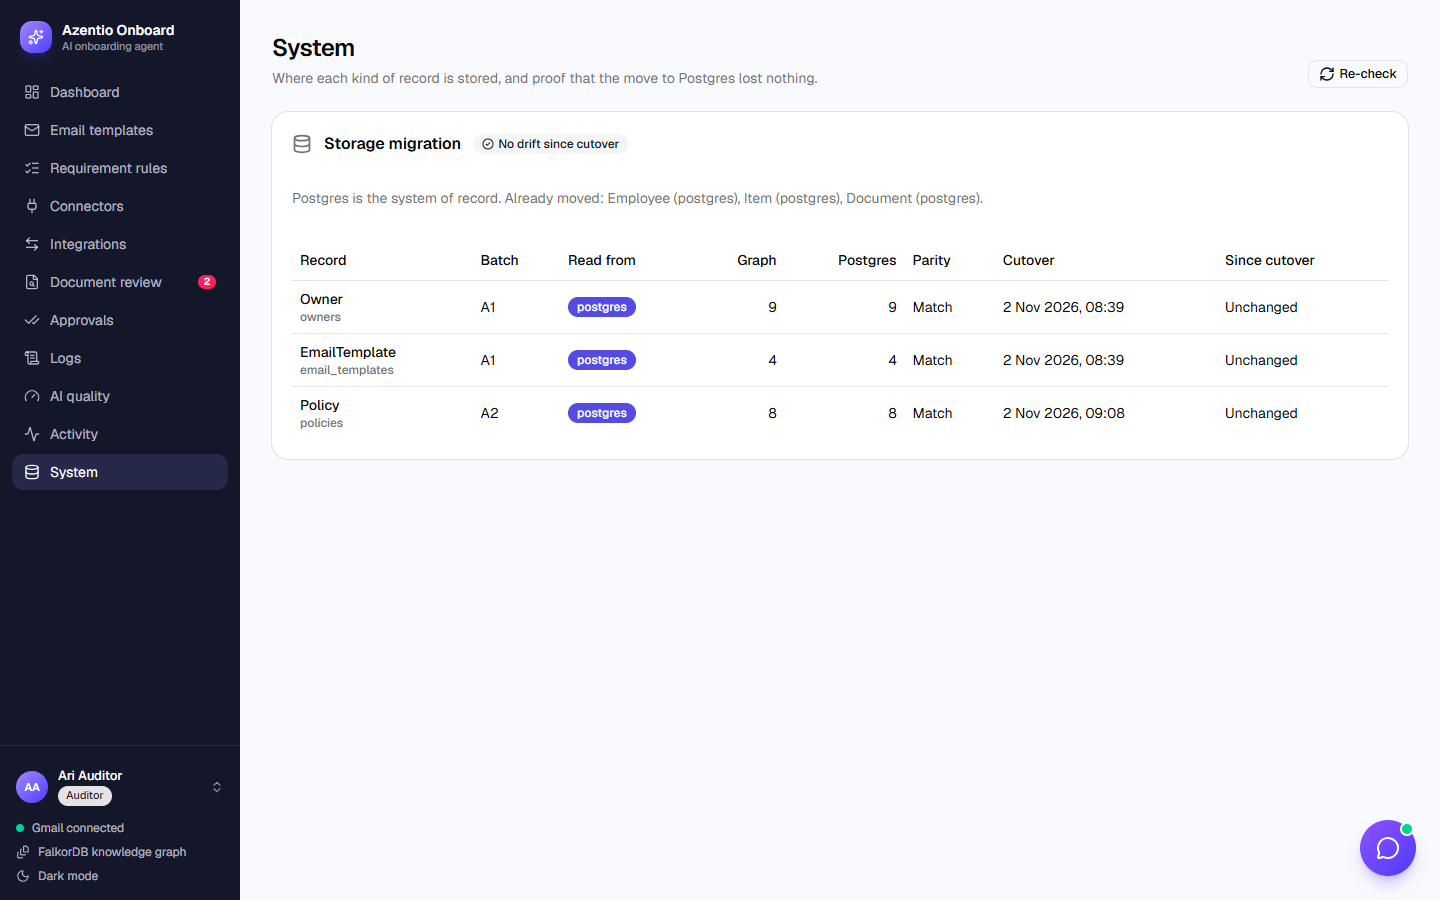
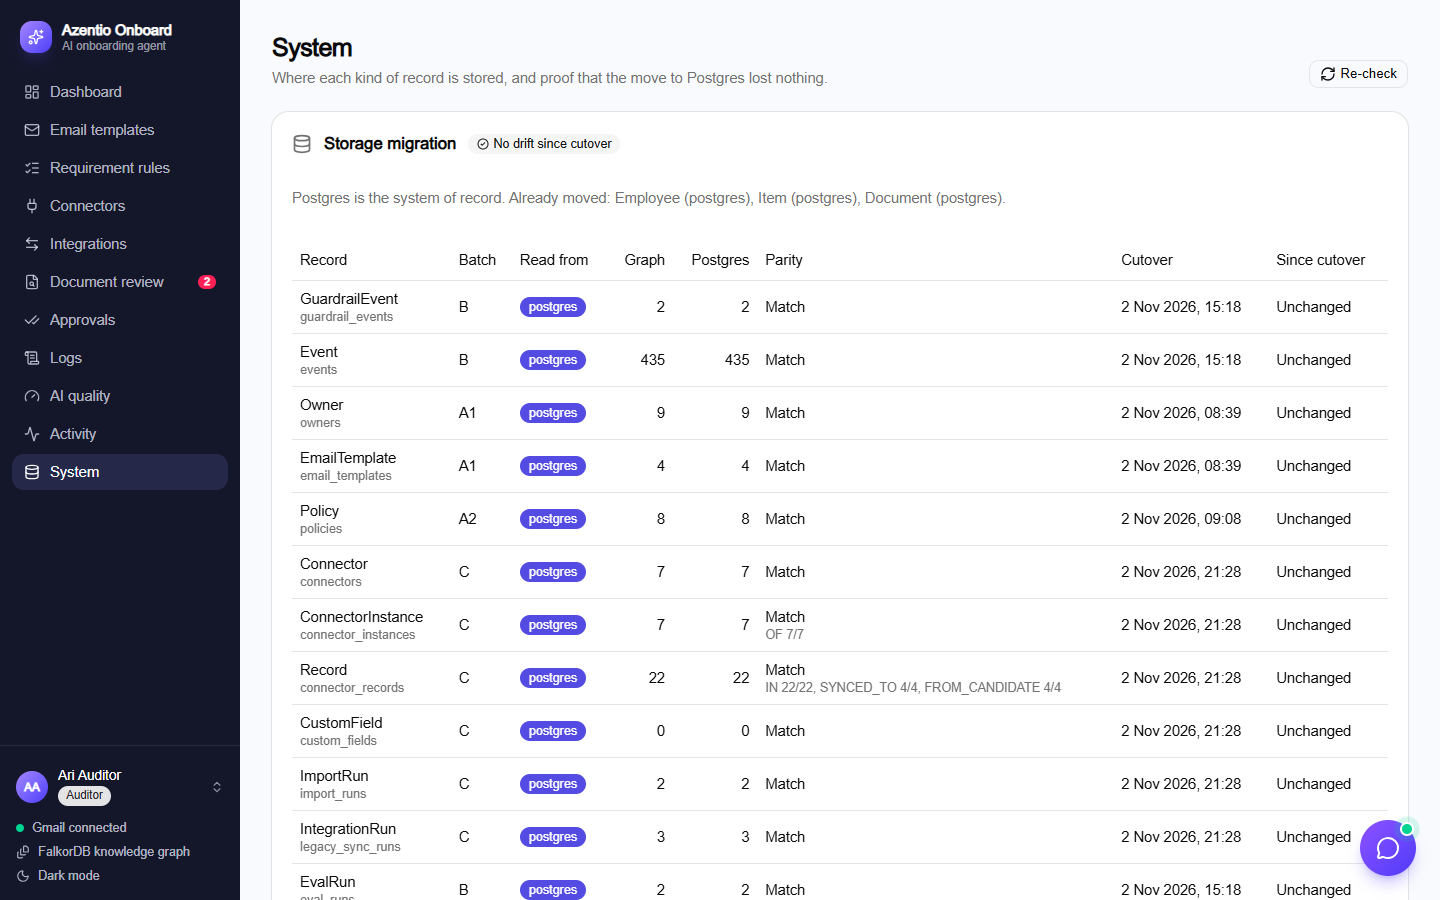
Docs: Phase 3 engine (LLD 12.4), startup steps, sensitive BGSAVE snapshots; refreshed screenshots
LLD 12.1 lists the startup gates as built (records, documents, graph batches, connector secrets) and the new 12.4
describes the migration engine: LabelSpec/EdgeSpec, freeze and lock, the report's ok, after_cutover and the drift
baseline, rollback. AGENTS.md's graph-label rule covers EdgeSpec backfill/restore and after_cutover. The runbook warns
that a pre-cutover BGSAVE keeps plaintext connector secrets. Screenshots refreshed by smoke.py, now with /connectors.

diff --git a/docs/lld.md b/docs/lld.md
@@ -859,6 +859,9 @@ Every step is idempotent: running it twice gives the same state as running it on
 3. **`db.migrate()`:** applies `migrations/NNN_*.sql` in order under an advisory lock (safe with several replicas). Each file runs in its own transaction and is recorded in `schema_migrations`.
 4. **`import_graph_rows()`:** imports the legacy audit history (§10.4), if the graph is reachable.
 5. **`ensure_users()`:** creates the admin from `ADMIN_EMAIL`/`ADMIN_PASSWORD` if missing. In dev the defaults are `admin@azentio.local` / `admin-dev-pass`. An existing password is never overwritten. Outside production it also creates the dev accounts `hrops@`, `approver@`, `manager@` and `auditor@azentio.local`, and prints them once.
+5a. **`migrate_records()` / `migrate_documents()`:** the one-time Phase 1 and Phase 2 backfill gates (§12.3).
+5b. **`migrate_graph_batches()`:** cuts over every Phase 3 batch not yet on Postgres (§12.4). It runs before the job worker, the Gmail poller and the scheduler start, and refuses to start, with "nothing was switched", on a live second instance, a parity or edge mismatch, or graph data the mapping can't take.
+5c. **`secrets.check_at_startup()`:** stored connector secrets must be readable with the configured key ([ADR 0013](adr/0013-connector-secrets-at-rest.md)). A malformed key, production without `SECRETS_KEY` while secrets are stored, or no key matching the stored fingerprints stops startup with the fingerprints named.
 6. **Lifespan:** if the graph is up, it runs `ingest.seed()` (default rules, templates, sample joiners, connectors, policies) and `ensure_dev_manager_reports()`. Then it starts the job worker, the Gmail poller and the integration scheduler.
 
 ### 12.2 Health
@@ -885,6 +888,38 @@ Every step is idempotent: running it twice gives the same state as running it on
   4. stop graph writes, once every read path has switched
 
   The graph then becomes a rebuild-only read model.
+
+### 12.4 The Phase 3 migration engine (`graph_migration.py`)
+Every remaining graph record label moves through one engine, in batches (A1, A2, A3, B, C, D, E). The runbook is `docs/runbooks/phase-3-cutover.md`.
+- **`LabelSpec`, registered by the module that owns the table** (`SPEC_MODULES`):
+  - the `table` and `key`
+  - `to_row`, which maps graph properties to columns
+  - `canonical`, one comparable form used for both sides
+  - `from_row`, which maps a row back to graph properties for rollback; it never emits null
+  - `mapped_keys` / `dropped_keys`, for the schema diff
+  - `projection=True` when the graph keeps the label as a projection (`Owner`)
+  - `allowed_readers`
+  - `edges`
+  - `after_cutover`
+- **`EdgeSpec`:**
+  - `graph_count` / `pg_count`, the counts that must match
+  - `restore()`, which rebuilds the edges in the graph on rollback
+  - optional `backfill(conn)`, for edges that have no node of their own (the employee ↔ connector record links). It runs inside the cutover transaction and replaces the table's contents.
+- **`cutover(batch)`:**
+  1. Takes the advisory lock and checks the freeze: refuses if another instance's heartbeat is still advancing.
+  2. Backfills every label idempotently, then the edges, in one transaction.
+  3. Reports per label: counts, checksums, the first mismatch, the schema diff, edge counts, and the read-path scan (code that still names the label). A label is `ok` only if parity, edges and the schema diff are all clean.
+  4. If anything isn't clean, it raises and switches nothing.
+  5. Otherwise, `after_cutover` runs (batch C removes the plaintext secrets from the graph), and the graph checksum taken after it becomes the drift baseline. Then the bridge switches.
+- **`drift_since_cutover()`:**
+  - A retired label is compared with its baseline; a graph emptied by a wipe counts as ok.
+  - A projection label is compared with Postgres as it is now.
+- **`rollback(batch)`:**
+  1. Builds every graph payload first, so a row that can't be converted (for example, a secret with no key) aborts before anything changes.
+  2. Removes graph nodes that aren't in the table, including nodes that lack the key property.
+  3. Writes every row back and restores the edges.
+  4. Checks parity per label, then switches the bridge back.
+- **CLI:** `python -m graph_migration report|drift|rollback <batch>`. `/api/admin/migration` (admin and auditor) serves the same report on the System page.
 
 ---
 

diff --git a/AGENTS.md b/AGENTS.md
@@ -121,7 +121,7 @@ cd backend && uv run python test_phase3.py    # migration engine (freeze, cutove
 - **Rules change only by publishing a version** (`policy/`). A requirements file enters only through `ingest.import_requirements`: v1 on a fresh install, a governed draft after that. Replay never deletes an item: not-started items are cancelled, done items or items with documents are kept as evidence.
 - **One open draft at a time is a deliberate limit**, not a bug: two drafts of the same rule set would need merging. Revisit only if HR asks for parallel drafts.
 - **Every `work_queue` kind is a contract** in `work_queue.KINDS`: an SLA, an escalation role and resolution steps. Register a kind before opening items of it.
-- **Graph labels move through `graph_migration.py` only** (Phase 3): register a `LabelSpec` in the owning module (listed in `graph_migration.SPEC_MODULES`; `projection=True` if the graph keeps it as a projection), then the cutover runs at startup before any worker, refuses unless parity, schema diff, edges and the read-path scan are clean, and records before/after evidence. Follow `docs/runbooks/phase-3-cutover.md` per batch.
+- **Graph labels move through `graph_migration.py` only** (Phase 3): register a `LabelSpec` in the owning module (listed in `graph_migration.SPEC_MODULES`; `projection=True` if the graph keeps it as a projection; edges as `EdgeSpec` with counts, a `restore` for rollback and, for edges with no node of their own, a `backfill`; `after_cutover` for anything that must leave the graph once Postgres holds it, such as plaintext secrets). The cutover runs at startup before any worker, refuses unless parity, edge counts, the schema diff (no unmapped keys) and the read-path scan are all clean, and records before/after evidence (LLD §12.4). Follow `docs/runbooks/phase-3-cutover.md` per batch. An install that ran the first batch C build (before the graph secret scrub) needs `rollback C` and a restart.
 - **Postgres is the system of record.**
   - Read migrating record types only through `shared/bridge.py`.
   - A type may switch to Postgres only after `parity()` passes.

diff --git a/docs/runbooks/phase-3-cutover.md b/docs/runbooks/phase-3-cutover.md
@@ -12,6 +12,10 @@ restore path.**
 1. **Pre-checks**
    - CI is green on the batch PR. That covers `test_phase3`, the API contract and smoke.
    - Take a graph snapshot: `docker compose exec falkordb redis-cli BGSAVE`, then wait until `LASTSAVE` changes.
+     **The snapshot is sensitive.** It keeps every graph value as it was, including the plaintext connector secrets
+     that batch C encrypts and then removes from the graph. Store it like a credential, delete it once its batch is
+     signed off (after E it's the cleanup's rollback point; delete it once E is signed off), and rotate any real
+     credential it held.
    - Save the "before" report: `cd backend && uv run python -m graph_migration report --out ../before-<batch>.json`.
 2. **Freeze**
    - Stop **every** backend instance. The cutover refuses to run while another instance's heartbeat is still
@@ -249,8 +253,3 @@ counts equal. Both secrets became Fernet tokens (`secret_key_id d8f1b5e4`, the d
   onboarding links. Re-upgrade: five clean cutovers.
 
 **Sign-off:** dev ✓. CI on the PR covers `test_phase3` (C section and API contract) with a throwaway `SECRETS_KEY`.
-
-**Deep test (2026-11-02):** the review found the graph still held the plaintext secrets after cutover. The fixed
-cutover removes them, so dev was rolled back (`rollback C`) and restarted: cut over at 15:58:20 UTC, no `secret`
-property left in the graph, the Slack and Jira hints unchanged, both connection tests 200, and all 15 labels at parity
-with no drift. Upgrading an install that ran the earlier C build means the same two steps: `rollback C`, then restart.
